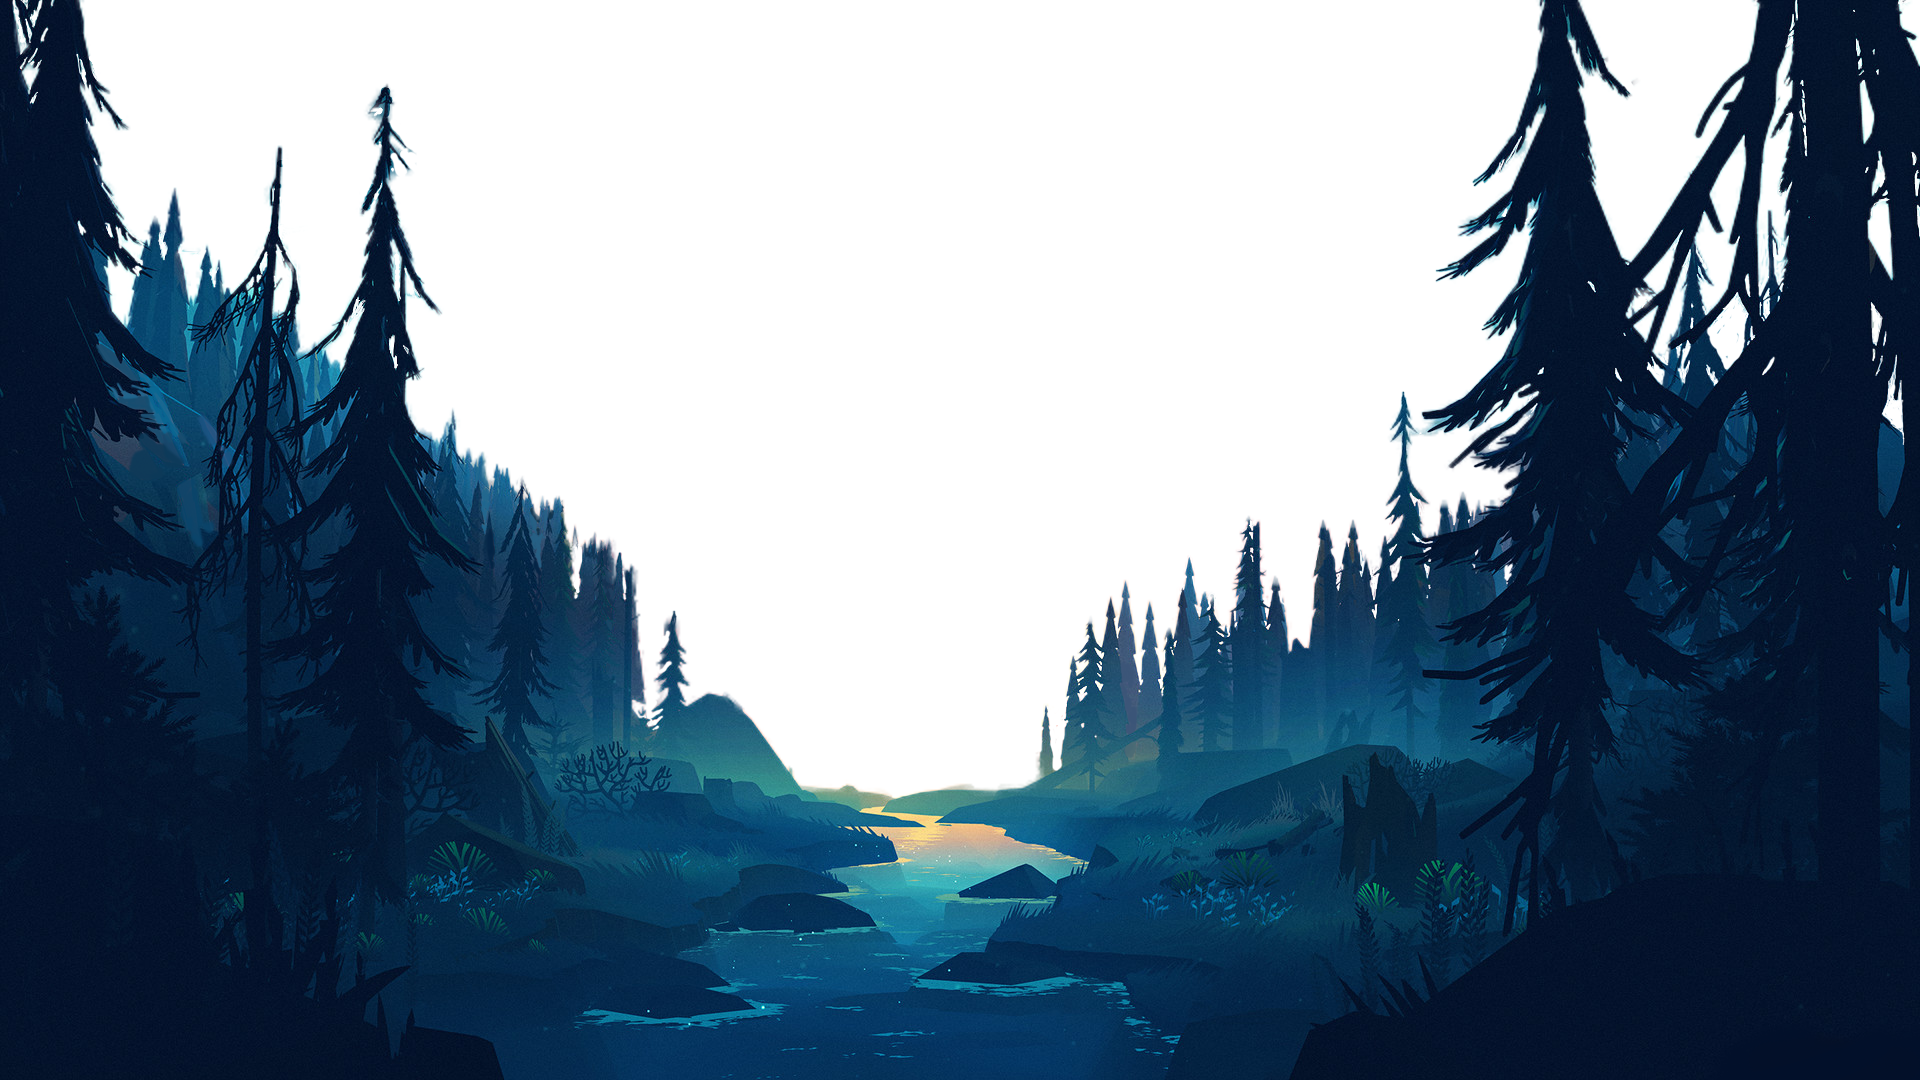
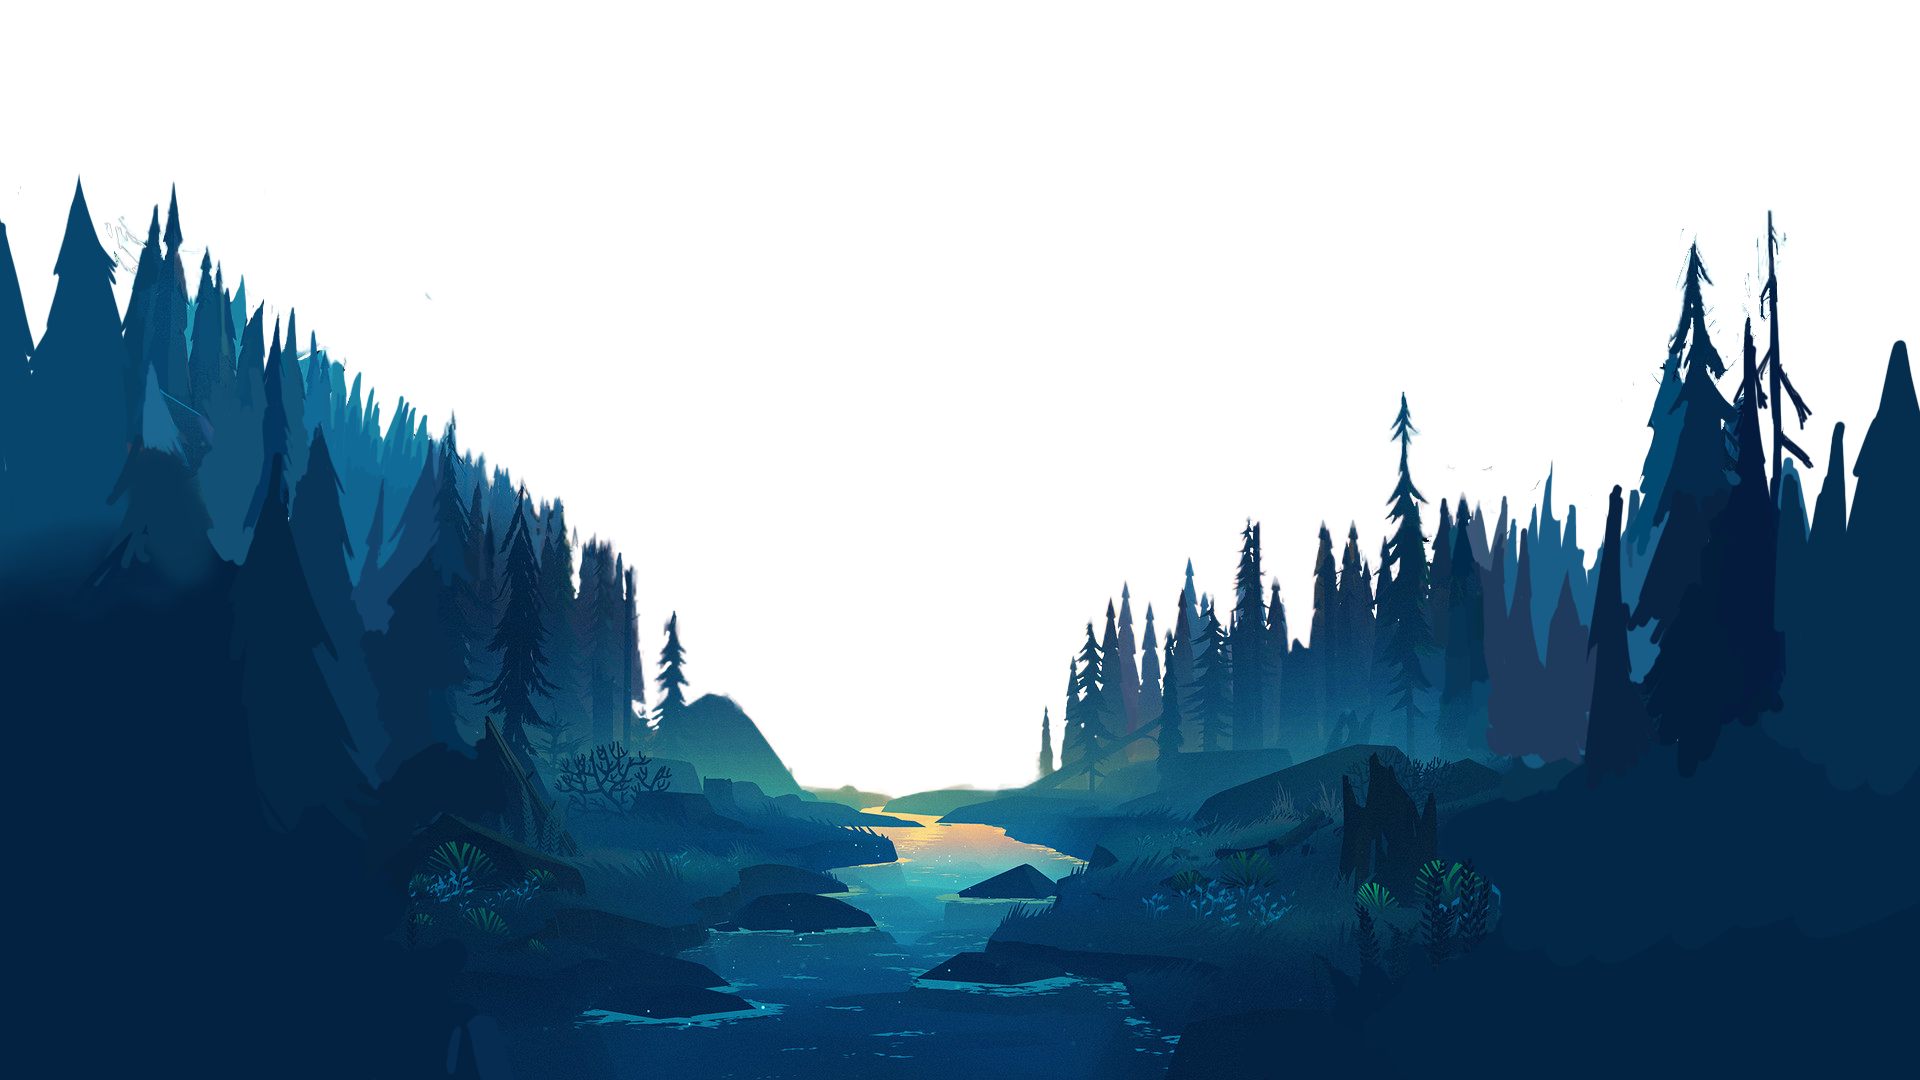
Final

diff --git a/src/index.css b/src/index.css
@@ -32,11 +32,11 @@
 }
 
 .fog {
-  /* background: url("./assets/fog.webp") bottom/100% repeat-x;
+  background: url("./assets/fog.webp") bottom/100% repeat-x;
   opacity: 0.3;
   animation: moves 20s infinite linear;
   z-index: 110;
-  pointer-events: none; */
+  pointer-events: none;
 }
 
 @keyframes moves {
@@ -46,15 +46,31 @@
 }
 
 .forest {
-  background: url("./assets/forest.png") bottom/100% no-repeat;
+  background: url("./assets/forest.webp") bottom/100% no-repeat;
   background-size: cover;
   background-position: center;
   z-index: 100;
   pointer-events: none;
 }
 
+.treeLeft {
+  background: url("./assets/tree1.webp") bottom/100% no-repeat;
+  background-size: cover;
+  background-position: center;
+  z-index: 105;
+  pointer-events: none;
+}
+
+.treeRight {
+  background: url("./assets/tree2.webp") bottom/100% no-repeat;
+  background-size: cover;
+  background-position: center;
+  z-index: 105;
+  pointer-events: none;
+}
+
 .temple {
-  background: url("./assets/house.png") bottom/100% no-repeat;
+  background: url("./assets/house.webp") bottom/100% no-repeat;
   background-size: cover;
   background-position: center;
   z-index: 90;
@@ -62,7 +78,7 @@
 }
 
 .deer {
-  background: url("./assets/deer.png") bottom/100% no-repeat;
+  background: url("./assets/deer.webp") bottom/100% no-repeat;
   background-size: cover;
   background-position: center;
   z-index: 80;
@@ -70,7 +86,7 @@
 }
 
 .owl {
-  background: url("./assets/owl.png") bottom/100% no-repeat;
+  background: url("./assets/owl.webp") bottom/100% no-repeat;
   background-size: cover;
   background-position: center;
   z-index: 70;
@@ -78,7 +94,7 @@
 }
 
 .moon {
-  background: url("./assets/moon.png") center/cover no-repeat;
+  background: url("./assets/moon.webp") center/cover no-repeat;
   background-size: cover;
   background-position: center;
   pointer-events: none;
@@ -140,6 +156,7 @@
 
 .skillsHeader {
   position: fixed;
+  left: 25%;
   margin-top: 10vh;
   font-size: 40px;
   font-weight: 600;
@@ -212,11 +229,10 @@
   display: flex;
   gap: 4vmin;
   position: absolute;
-  left: 50%;
+  left: 45%;
   top: 50%;
   transform: translate(0%, -50%);
   user-select: none; /* -- Prevent image highlighting -- */
-  pointer-events: auto;
 }
 
 .image-track > .image {
@@ -224,7 +240,6 @@
   height: 36vmin;
   object-fit: cover;
   object-position: 100% center;
-  pointer-events: auto;
 }
 
 .skill_container {
@@ -320,7 +335,7 @@
 .thanks_container {
   position: relative;
   max-width: 1140px;
-  margin: 0 auto;
+  margin: 0 80px;
   margin-top: 100vh;
   z-index: 300;
 }

diff --git a/src/scenes/Projects.jsx b/src/scenes/Projects.jsx
@@ -1,5 +1,7 @@
 import React, { useRef, useState, useEffect } from "react";
-import News from "../assets/news.png";
+import spy from "../assets/spy.webp";
+import news from "../assets/newspaper.webp";
+import santaAI from "../assets/santaAI.webp";
 
 const Projects = () => {
   const trackRef = useRef(null);
@@ -69,11 +71,11 @@ const Projects = () => {
     window.open("http://spyproject.netlify.com/", "_blank");
   }
   function openNews() {
-    window.open("https://newsproject-jyyoungk.vercel.app/", "_blank");
+    window.open("https://news-project-junyoung.vercel.app/", "_blank");
   }
-  // function openAI() {
-  //   window.location.href = 'https://www.example.com';
-  // }
+  function openAI() {
+    window.open("https://santaai.vercel.app/", "_blank");
+  }
   // const handleMouseClick = (e) => {
   //   //Creating a function that saves the mouse position when clicked
   //   trackRef.current.setAttribute("data-mouse-down-at", e.clientX.toString());
@@ -140,24 +142,25 @@ const Projects = () => {
         data-prev-percentage="0"
       >
         <img
-          className="image z-5000"
+          className="image z-5000 cursor-pointer hover:scale-125"
           alt="portfolio"
-          src="https://i.ibb.co/kMw3GxM/318079798-707876150953305-3898617955148906755-n.png"
+          src={spy}
           draggable="false"
           onClick={() => openSpy()}
         />
         <img
-          className="image z-5000"
+          className="image z-5000 cursor-pointer hover:scale-125"
           alt="portfolio"
-          src={News}
+          src={news}
           draggable="false"
           onClick={() => openNews()}
         />
         <img
-          className="image"
+          className="image z-5000 cursor-pointer hover:scale-125"
           alt="portfolio"
-          src="https://i.ibb.co/mhgtvPQ/AI-HERO-58306268c6f4b659459f5b7b2dd3e8a5.jpg"
+          src={santaAI}
           draggable="false"
+          onClick={() => openAI()}
         />
       </div>
       <div

diff --git a/src/App.jsx b/src/App.jsx
@@ -44,7 +44,7 @@ const App = () => {
     const z_1 = 1 + (w / 1000) * p_b;
     const z_2 = 1 + (w / 10000) * p_b;
     const z_3 = 1 + (w / 90000) * p_b;
-    const z_4 = 1 + w * 0.00001 * p_b;
+    const z_tree = 1 + w * 0.00002 * p_b;
     const z_forest = 1 + w * 0.000008 * p_b;
     const z_5 = 1 + w * 0.000004 * p_b;
     const z_6 = 1 + w * 0.000001 * p_b;
@@ -66,6 +66,12 @@ const App = () => {
     document.getElementsByClassName(
       "forest"
     )[0].style = `transform: translate3d(${hr}px,0,0) scale(${z_forest})`;
+    document.getElementsByClassName(
+      "treeLeft"
+    )[0].style = `transform: translate3d(${hr}px,0,0) scale(${z_tree})`;
+    document.getElementsByClassName(
+      "treeRight"
+    )[0].style = `transform: translate3d(${hr}px,0,0) scale(${z_tree})`;
 
     if (z_forest <= 4) {
       document.getElementsByClassName(
@@ -89,12 +95,11 @@ const App = () => {
     }
 
     if (z_forest > 7) {
-      //start scaling fast after forest content finishes
       setHideOwl(false);
-      document.getElementsByClassName("deer")[0].style.display = "none";
       document.getElementsByClassName(
         "owl"
       )[0].style = `transform: translate3d(${hr_3}px,0,0) scale(${z_8})`;
+      document.getElementsByClassName("deer")[0].style.display = "none";
     }
 
     if (z_forest > 14) {
@@ -128,6 +133,8 @@ const App = () => {
 
       {/* ----------- First Content Home Page -----------  */}
       <div className="fixed w-full h-full top-0 left-0 forest"></div>
+      <div className="fixed w-full h-full top-0 left-0 treeLeft"></div>
+      <div className="fixed w-full h-full top-0 left-0 treeRight"></div>
 
       <div className={`forest_container z-91`}>
         <div className="forest-header hover:filter hover:saturate-200 transition duration-500">

diff --git a/src/scenes/MySkills.jsx b/src/scenes/MySkills.jsx
@@ -1,11 +1,11 @@
 import { useEffect, useRef } from "react";
-import ReactLogo from "../assets/logo/ReactLogo.png";
-import ReduxLogo from "../assets/logo/ReduxLogo.png";
-import TailwindLogo from "../assets/logo/TailwindLogo.png";
-import JavascriptLogo from "../assets/logo/JavascriptLogo.png";
-import TypescriptLogo from "../assets/logo/TypescriptLogo.png";
-import NodeLogo from "../assets/logo/NodeLogo.png";
-import PhotoshopLogo from "../assets/logo/PhotoshopLogo.png";
+import ReactLogo from "../assets/logo/ReactLogo.webp";
+import ReduxLogo from "../assets/logo/ReduxLogo.webp";
+import TailwindLogo from "../assets/logo/TailwindLogo.webp";
+import JavascriptLogo from "../assets/logo/JavascriptLogo.webp";
+import TypescriptLogo from "../assets/logo/TypescriptLogo.webp";
+import NodeLogo from "../assets/logo/NodeLogo.webp";
+import PhotoshopLogo from "../assets/logo/PhotoshopLogo.webp";
 
 const MySkills = () => {
   const skillRef = useRef(null);
@@ -50,12 +50,12 @@ const MySkills = () => {
       window.removeEventListener("scroll", handleScroll);
     };
   });
-
+  // border-4 border-red-600
   return (
-    <section id="skills" className="pt-10 pb-24 ">
+    <section id="skills" className="pt-10 pb-24">
       <div
         ref={skillRef}
-        className="skillsHeader fixed left-1/4 -translate-y-1/2 -translate-x-1/2
+        className="skillsHeader
          md:text-8xl text-4xl ml:48"
         style={{ top: 2900, color: "#ffffff" }}
       >

diff --git a/src/scenes/Contact.jsx b/src/scenes/Contact.jsx
@@ -17,7 +17,6 @@ const Contact = () => {
 
   return (
     <section id="contact" className="contact py-48">
-      {/* HEADINGS */}
       <motion.div
         initial="hidden"
         whileInView="visible"
